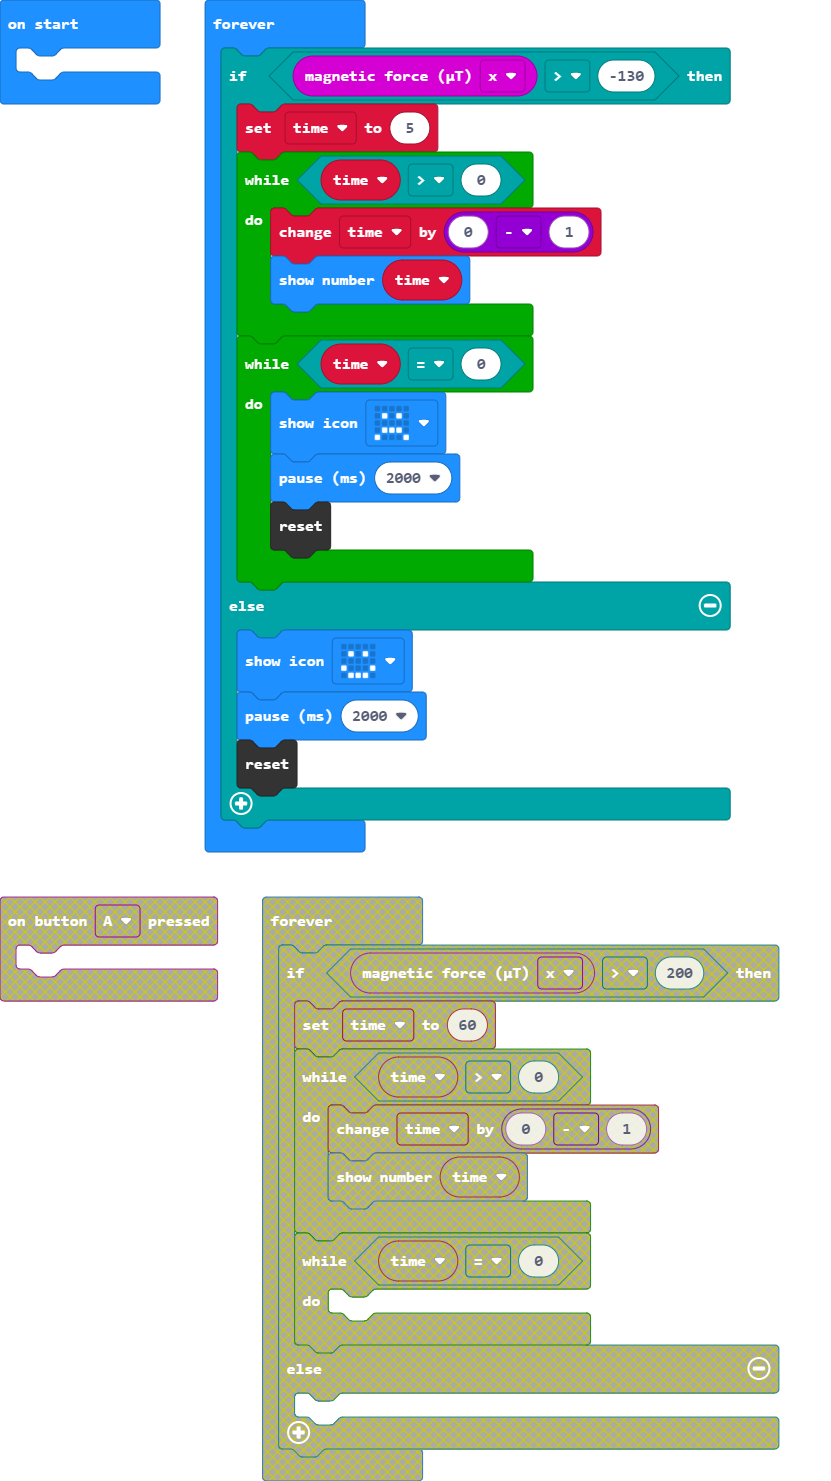
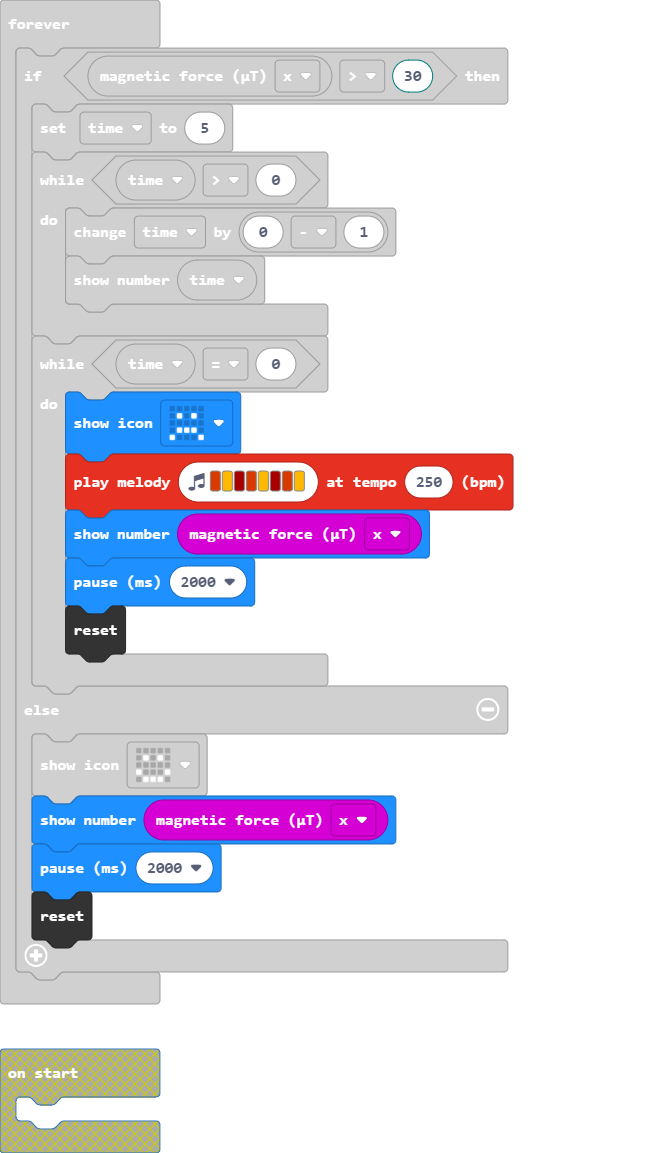
Update main.blocks, main.ts

diff --git a/main.ts b/main.ts
@@ -1,6 +1,6 @@
 let time = 0
 basic.forever(function () {
-    if (input.magneticForce(Dimension.X) > -130) {
+    if (input.magneticForce(Dimension.X) > 30) {
         time = 5
         while (time > 0) {
             time += 0 - 1
@@ -8,11 +8,14 @@ basic.forever(function () {
         }
         while (time == 0) {
             basic.showIcon(IconNames.Sad)
+            music.playMelody("B A C5 B A C5 B A ", 250)
+            basic.showNumber(input.magneticForce(Dimension.X))
             basic.pause(2000)
             control.reset()
         }
     } else {
         basic.showIcon(IconNames.Happy)
+        basic.showNumber(input.magneticForce(Dimension.X))
         basic.pause(2000)
         control.reset()
     }
